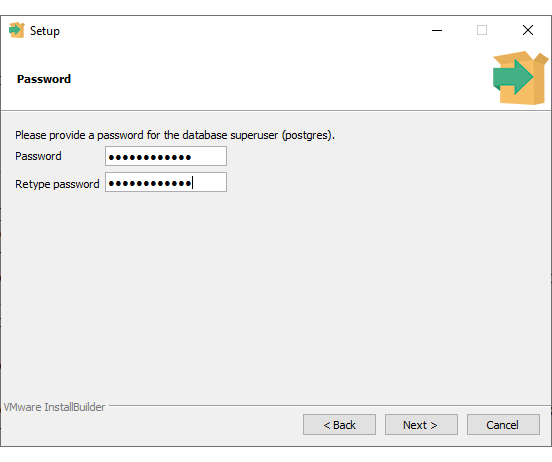
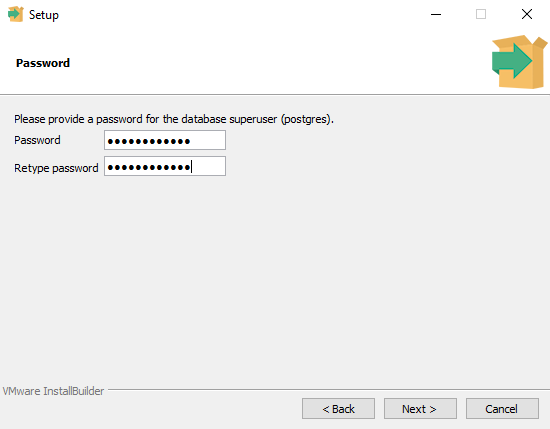
docs: Add the doc to upgrade from PostGRES12 to 18 (#155)

diff --git a/feature-modules/alyvix/installation/alyvix-service/install-alyvix-service.inc.rst b/feature-modules/alyvix/installation/alyvix-service/install-alyvix-service.inc.rst
@@ -1,18 +1,6 @@
 
 Before installing Alyvix Service, first check that your setup meets the system requirements.
 
-.. note::
-
-   You can also view video versions of this page on YouTube:
-
-   * `(4'03") <https://youtu.be/8vRCGsR9Xhc>`__ |smalltab| Install Alyvix Service
-   * `(4'29") <https://youtu.be/ElP_A9XwwpY>`__ |smalltab| Install the *alyvix-neteye* module in |ne|
-   * `(3'05") <https://youtu.be/8sH1AWTOQxo>`__ |smalltab| Enable Alyvix test cases in |ne|
-   * `(7'50") <https://youtu.be/C3GiaQoyhCQ>`__ |smalltab| Run an RDC test case in Alyvix on |ne|
-
-   as well as additional :ref:`introductory videos <alyvix_overview_top>` and
-   :ref:`tutorial videos <alyvix_video_list>`.
-
 .. _alyvix_service_system_requirements:
 
 System Requirements
@@ -103,6 +91,20 @@ the installed versions of Alyvix Core and PostgreSQL.
 
 |
 
+.. note::
+
+   You can also view video versions of this page on YouTube:
+
+   * `(4'03") <https://youtu.be/8vRCGsR9Xhc>`__ |smalltab| Install Alyvix Service
+   * `(4'29") <https://youtu.be/ElP_A9XwwpY>`__ |smalltab| Install the *alyvix-neteye* module in |ne|
+   * `(3'05") <https://youtu.be/8sH1AWTOQxo>`__ |smalltab| Enable Alyvix test cases in |ne|
+   * `(7'50") <https://youtu.be/C3GiaQoyhCQ>`__ |smalltab| Run an RDC test case in Alyvix on |ne|
+
+   as well as additional :ref:`introductory videos <alyvix_overview_top>` and
+   :ref:`tutorial videos <alyvix_video_list>`.
+
+|
+
 
 .. _alyvix_service_installation_steps:
 
@@ -113,9 +115,10 @@ The following steps will install Alyvix Service on your machine:
 
 #. **Request an Alyvix Service subscription**
 
-   Choose your `preferred subscription plan <https://alyvix.com/service#plans>`_ and get in touch with us
-   `to request it <https://alyvix.com/team>`_, providing a machine IP from where you will download the
-   software package.  You'll obtain access to
+   Choose your `preferred subscription plan <https://alyvix.com/service#plans>`_
+   and get in touch with us `to request it <https://alyvix.com/team>`_,
+   providing a machine IP from where you will download the software package.
+   You'll obtain access to
    `our repository <https://repo.wuerth-phoenix.com/alyvix-service/>`_. |br|
 
 #. **Install Alyvix Core**
@@ -126,32 +129,39 @@ The following steps will install Alyvix Service on your machine:
 #. **Install PostgreSQL**
 
    Download and run the most recent version of
-   `the PostgreSQL 12.X installer <https://www.enterprisedb.com/downloads/postgres-postgresql-downloads>`_
-   for the **Windows x86-64** architecture.  Be sure to run it :file:`in administrator mode`.
+   `the PostgreSQL 18.X installer <https://www.enterprisedb.com/downloads/postgres-postgresql-downloads>`_
+   for the **Windows x86-64** architecture.  Be sure to run it
+   **in administrator mode**.
 
-   Click "Next" to accept all the defaults until it asks you to set the password.  Change the
-   default password to ensure the security of your system, and make a note of it so that
-   you can configure Alyvix Service to use PostGre in the next step below.
+   Click "Next" to accept all the defaults until it asks you to set the
+   password.  Change the default password to ensure the security of your system,
+   and make a note of it so that you can configure Alyvix Service to use PostGre
+   in the next step below.
 
    .. image:: /feature-modules/alyvix/installation/alyvix-service/img/postgre-install-05.png
+      :class: image-boxshadow
       :width: 70%
       :align: center
       :alt: Use a secure password and remember it.
 
-   Continue clicking "Next" to accept the remaining defaults and complete the installation. |br|
+   Continue clicking "Next" to accept the remaining defaults and complete the
+   installation. |br|
 
 #. **Install Alyvix Service**
 
-   Download the most recent version of the installer (:file:`alyvix_service_<version>.zip`) from
-   `the repository <https://repo.wuerth-phoenix.com/alyvix-service/>`_, and run the :file:`setup.exe`
-   installer which can be found inside the .zip file :file:`in administrator mode`. |br|
+   Download the most recent version of the installer
+   (:file:`alyvix_service_<version>.zip`) from
+   `the repository <https://repo.wuerth-phoenix.com/alyvix-service/>`_, and run
+   the :file:`setup.exe` installer which can be found inside the .zip file
+   **in administrator mode**. |br|
 
    .. note:: See how to
-      :ref:`alyvix_service_unblock_alyvix_files` in case Windows blocks a downloaded Alyvix Service file.
+      :ref:`alyvix_service_unblock_alyvix_files` in case Windows blocks a
+      downloaded Alyvix Service file.
 
    Set the database password from step #3 as follows:
 
-   * Open the file |config-file-location| :file:`in administrator mode`
+   * Open the file |config-file-location| **in administrator mode**
    * Paste the password into this line: |br1|
      ``"database":{.. "password": "<your_password>", ..}`` |br|
 
@@ -161,22 +171,26 @@ The following steps will install Alyvix Service on your machine:
 
    * Create the folder :file:`C:\\ProgramData\\Alyvix\\certs\\webserver\\`
    * Save :file:`cert.crt` as an HTTPS certificate recognized by your CA
-   * Save :file:`cert.key` as the unencrypted private key corresponding to :file:`cert.crt`
+   * Save :file:`cert.key` as the unencrypted private key corresponding to
+     :file:`cert.crt`
 
-   Note that the private key is all you need, you should not be asked for an additional password.
+   Note that the private key is all you need, you should not be asked for an
+   additional password.
 
-   Next, copy the JSON Web Token (JWT), which is used for API authentication purposes,
-   from your monitoring system to Alyvix Service.
+   Next, copy the JSON Web Token (JWT), which is used for API authentication
+   purposes, from your monitoring system to Alyvix Service.
 
    * Create the folder :file:`C:\\ProgramData\\Alyvix\\certs\\jwt\\`
-   * Copy the JWT certificate file from your monitoring system into the folder above,
-     renaming it to :file:`public.pem`. |br|
+   * Copy the JWT certificate file from your monitoring system into the folder
+     above, renaming it to :file:`public.pem`. |br|
 
 #. **Start Alyvix Service**
 
-   Run **Alyvix Service** within Windows Services **Task Manager > Services Tab > Alyvix Service > Start**
+   Run **Alyvix Service** within Windows Services
+   **Task Manager > Services Tab > Alyvix Service > Start**
 
    .. image:: /feature-modules/alyvix/installation/alyvix-service/img/service-alyvix-restart.png
+      :class: image-boxshadow
       :width: 70%
       :align: center
       :alt: Start the Alyvix Service.
@@ -185,8 +199,9 @@ The following steps will install Alyvix Service on your machine:
 
 #. **Monitoring system integration**
 
-   At this point Alyvix Service is installed and running, and you can now proceed to integrate it
-   :ref:`installing the NetEye-Alyvix module <neteye-modules>` (`neteye-alyvix`) and then
+   At this point Alyvix Service is installed and running, and you can now
+   proceed to integrate it :ref:`installing the NetEye-Alyvix module <neteye-modules>`
+   (`neteye-alyvix`) and then
    :ref:`configuring how it's used within NetEye <alyvix_monitoring_integrations_neteye_checklist>`.
 
 |
@@ -197,7 +212,8 @@ The following steps will install Alyvix Service on your machine:
 Upgrading
 `````````
 
-The following steps will upgrade Alyvix Service to the latest version on your machine:
+The following steps will upgrade Alyvix Service to the latest version on your
+machine:
 
 #. Back up your existing configuration
 
@@ -217,13 +233,16 @@ The following steps will upgrade Alyvix Service to the latest version on your ma
      (:file:`C:\\Program Files\\Alyvix\\Alyvix Service\\` for versions before 2.6.0)
    * Remove old Alyvix Client scheduled tasks:  **Windows Task Scheduler > alyvix_client<..> > delete**
 
-#. Upgrade Alyvix Core
+#. Upgrade Alyvix Core following :ref:`the instructions here <alyvix_core_install_upgrade>` |br|
 
-   Follow :ref:`the instructions here <alyvix_core_install_upgrade>` |br|
+#. *If necessary*, upgrade PostgreSQL -- when upgrading from a version of
+   Alyvix Service earlier than 2.6 to a version 2.7 or higher, you will need to
+   :ref:`upgrade PostGreSQL to version 18.x <alyvix_postgresql_upgrade>`. |br|
 
 #. Install the new version of Alyvix Service
 
-   * Run the Alyvix Service Installer (:file:`setup.exe`) found in the Alyvix Service package
+   * Run the Alyvix Service Installer (:file:`setup.exe`) found in the
+     Alyvix Service package
    * Restore the two backup files and the directory you made in step #1:
 
      * |config-file-location|
@@ -238,13 +257,88 @@ The following steps will upgrade Alyvix Service to the latest version on your ma
 |
 
 
+.. _alyvix_postgresql_upgrade:
+
+Upgrading from PostgreSQL 12 to 18
+``````````````````````````````````
+
+To upgrade from a version of Alyvix Service earlier than 2.6 to a version
+2.7 or higher, follow these steps:
+
+#. Make sure that Alyvix Service is stopped (or uninstalled), and that the
+   PostgreSQL 12 service is still running.
+
+   Start a terminal session in the Postgres 12 installation ``/bin`` folder and
+   launch the ``pg_dump`` command as follows (specifying the backup path and
+   file name, in this case ``C:\backup\alyvix_service_backup.dump``)
+   to ensure your existing database is backed up:
+
+   .. code-block:: doscon
+
+      C:\Program Files\PostgreSQL\12\bin\> pg_dump -U postgres -F c -b -v -f C:\backup\alyvix_service_backup.dump alyvix_service
+
+#. Check that the backup was performed correctly, and to be safe, make a
+   snapshot of the machine on which your DB was running.
+
+#. Go to the Control Panel and uninstall Postgres 12 (including all data):
+
+   .. image:: /feature-modules/alyvix/installation/alyvix-service/img/postgres12-uninstall.png
+      :class: image-boxshadow
+      :width: 75%
+      :align: center
+      :alt: Uninstall Postgres 12
+
+#. Install Postgres 18 with the options shown here:
+
+   .. image:: /feature-modules/alyvix/installation/alyvix-service/img/postgres18-install-directory.png
+      :class: image-boxshadow
+      :width: 75%
+      :align: center
+      :alt: Choose the directory for PostgreSQL 18
+
+   |
+
+   .. image:: /feature-modules/alyvix/installation/alyvix-service/img/postgres18-install-components.png
+      :class: image-boxshadow
+      :width: 75%
+      :align: center
+      :alt: Choose the components to install for PostgreSQL 18
+
+#. Insert the same password that you used for Postgres 12 (if you decide to
+   change the password, you will also need to change it in |config-file-location|):
+
+   .. image:: /feature-modules/alyvix/installation/alyvix-service/img/postgres18-password.png
+      :class: image-boxshadow
+      :width: 75%
+      :align: center
+      :alt: Create a password for PostgreSQL 18
+
+#. Now from your terminal go into the Postgres 18 */bin* folder and create
+   the *alyvix_service* DB with the ``createdb`` command:
+
+   .. code-block:: doscon
+
+      C:\Program Files\PostgreSQL\18\bin\> createdb -U postgres alyvix_service
+
+#. Restore the backup with the ``pg_restore`` command:
+
+   .. code-block:: doscon
+
+      C:\Program Files\PostgreSQL\18\bin\> pg_restore -U postgres -d alyvix_service -v C:\backup\alyvix_service_backup.dump
+
+Finally, if you're following the procedure to upgrade Alyvix Service, return
+to the step where you will next install the new version of Alyvix Service.
+
+|
+
+
 .. _alyvix_service_uninstallation_steps:
 
 Uninstalling Alyvix Service
 ```````````````````````````
 
-The following steps will remove Alyvix Service from your machine.  Basically you will need to reverse
-the steps performed during installation.
+The following steps will remove Alyvix Service from your machine -- basically
+you will need to reverse the steps performed during installation.
 
 #. Disable the relevant Alyvix Nodes within your integrated monitoring system
 
@@ -252,8 +346,9 @@ the steps performed during installation.
    **Start > Computer Management > Services and Applications > Services > Alyvix Service**
 
 #. Uninstall Alyvix Service:
-   **Start > Settings > Apps > Alyvix Service > Uninstall** --
-   if desired, also uninstall PostgreSQL the same way.
+   **Start > Settings > Apps > Alyvix Service > Uninstall**
+
+#. If desired, also uninstall PostgreSQL the same way.
 
 #. Remove these two directories:
 
@@ -273,25 +368,31 @@ Unblock Alyvix Service Files
 
 When Alyvix Service installation files are downloaded from the Internet, Windows
 may mark them with security information known as the Mark of the Web (MOTW).
-In some environments, this can prevent the installer or related files from opening correctly.
+In some environments, this can prevent the installer or related files from
+opening correctly.
 
-If Windows blocks a downloaded Alyvix Service file, the following message may be displayed::
+If Windows blocks a downloaded Alyvix Service file, the following message may
+be displayed::
 
-   This file came from another computer and might be blocked to help protect this computer.
+   This file came from another computer and might
+   be blocked to help protect this computer.
 
-Before starting the Alyvix Service installation, verify that the downloaded files are not blocked.
-Windows may mark files downloaded from the Internet with security information known as the Mark of the Web (MOTW).
-Windows can also propagate this mark from a downloaded ZIP archive to the files extracted from it,
-which can leave the installer or its dependencies blocked.
+Before starting the Alyvix Service installation, verify that the downloaded
+files are not blocked. Windows may mark files downloaded from the Internet with
+security information known as the Mark of the Web (MOTW). Windows can also
+propagate this mark from a downloaded ZIP archive to the files extracted from
+it, which can leave the installer or its dependencies blocked.
 
-Before extracting the Alyvix Service archive, unblock the downloaded ``alyvix_service_<version>.zip`` file.
+Before extracting the Alyvix Service archive, unblock the downloaded
+``alyvix_service_<version>.zip`` file.
 
 To unblock the downloaded ZIP file:
 
 #. Open **File Explorer**.
 #. Locate the downloaded ``alyvix_service_<version>.zip`` file.
 #. Right-click the ZIP file and select **Properties**.
-#. On the **General** tab, check the **Security** section at the bottom of the window.
+#. On the **General** tab, check the **Security** section at the bottom of the
+   window.
 #. If the **Unblock** option is available, select it.
 #. Select **Apply**, then select **OK**.
 #. Extract the unblocked ``alyvix_service_<version>.zip`` archive.
@@ -301,13 +402,16 @@ To unblock the downloaded ZIP file:
 
    Unblock only files downloaded from trusted sources.
 
-If Windows continues to display security warnings for trusted Alyvix Service files:
+If Windows continues to display security warnings for trusted Alyvix Service
+files:
 
 * Make sure Windows and all required applications are up to date.
 * Verify that the files were downloaded from an official or trusted source.
 * Re-download the files if they may have been corrupted.
-* Check whether your organization applies security policies that block downloaded files.
-* Temporarily disable third-party download managers or security software only for testing purposes.
+* Check whether your organization applies security policies that block
+  downloaded files.
+* Temporarily disable third-party download managers or security software only
+  for testing purposes.
 
 |
 
